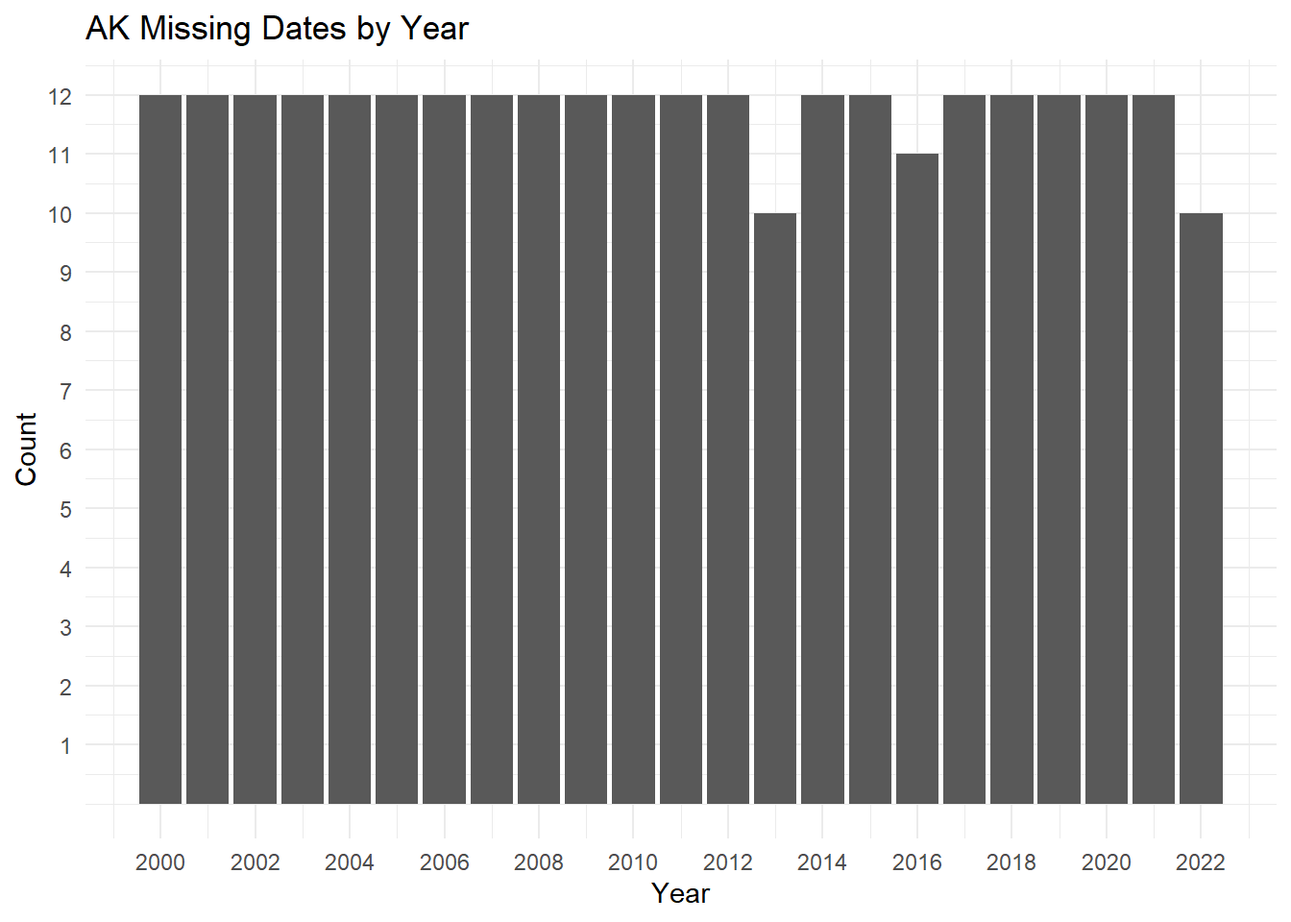
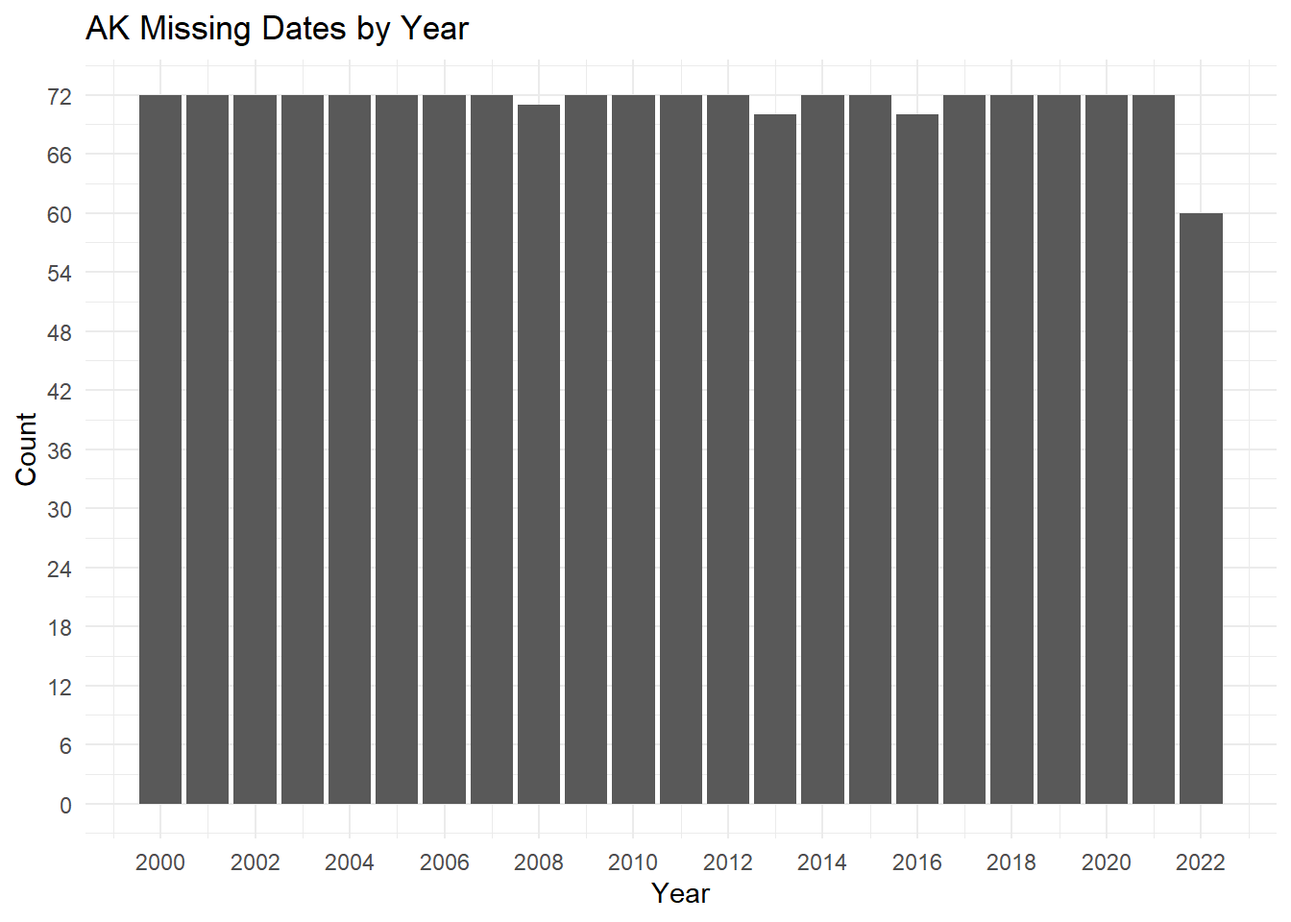
Build Book

diff --git a/docs/data.html b/docs/data.html
@@ -23,7 +23,7 @@
 <meta name="author" content="Kylie Brothers, Spencer Davis, and Sheris Johnet" />
 
 
-<meta name="date" content="2022-12-13" />
+<meta name="date" content="2022-12-14" />
 
   <meta name="viewport" content="width=device-width, initial-scale=1" />
   <meta name="apple-mobile-web-app-capable" content="yes" />
@@ -81,13 +81,18 @@
 <li class="chapter" data-level="3" data-path="data.html"><a href="data.html"><i class="fa fa-check"></i><b>3</b> Data</a>
 <ul>
 <li class="chapter" data-level="3.1" data-path="data.html"><a href="data.html#sources"><i class="fa fa-check"></i><b>3.1</b> Sources</a></li>
-<li class="chapter" data-level="3.2" data-path="data.html"><a href="data.html#cleaning-transformation"><i class="fa fa-check"></i><b>3.2</b> Cleaning / transformation</a></li>
-<li class="chapter" data-level="3.3" data-path="data.html"><a href="data.html#missing-value-analysis"><i class="fa fa-check"></i><b>3.3</b> Missing value analysis</a>
+<li class="chapter" data-level="3.2" data-path="data.html"><a href="data.html#cleaning-transformation"><i class="fa fa-check"></i><b>3.2</b> Cleaning / Transformation</a></li>
+<li class="chapter" data-level="3.3" data-path="data.html"><a href="data.html#missing-value-analysis"><i class="fa fa-check"></i><b>3.3</b> Missing Value Analysis</a>
 <ul>
-<li class="chapter" data-level="3.3.1" data-path="data.html"><a href="data.html#alaska-missing-values"><i class="fa fa-check"></i><b>3.3.1</b> Alaska Missing Values</a></li>
+<li class="chapter" data-level="3.3.1" data-path="data.html"><a href="data.html#data-with-missing-months"><i class="fa fa-check"></i><b>3.3.1</b> Data with Missing Months</a></li>
 </ul></li>
 </ul></li>
-<li class="chapter" data-level="4" data-path="results.html"><a href="results.html"><i class="fa fa-check"></i><b>4</b> Results</a></li>
+<li class="chapter" data-level="4" data-path="results.html"><a href="results.html"><i class="fa fa-check"></i><b>4</b> Results</a>
+<ul>
+<li class="chapter" data-level="4.1" data-path="results.html"><a href="results.html#mean-high-water-mhw"><i class="fa fa-check"></i><b>4.1</b> Mean High Water (MHW)</a></li>
+<li class="chapter" data-level="4.2" data-path="results.html"><a href="results.html#mean-low-water-mlw"><i class="fa fa-check"></i><b>4.2</b> Mean Low Water (MLW)</a></li>
+<li class="chapter" data-level="4.3" data-path="results.html"><a href="results.html#mean-tide-level-mtl"><i class="fa fa-check"></i><b>4.3</b> Mean Tide Level (MTL)</a></li>
+</ul></li>
 <li class="chapter" data-level="5" data-path="interactive-component.html"><a href="interactive-component.html"><i class="fa fa-check"></i><b>5</b> Interactive component</a></li>
 <li class="chapter" data-level="6" data-path="conclusion.html"><a href="conclusion.html"><i class="fa fa-check"></i><b>6</b> Conclusion</a></li>
 <li class="divider"></li>
@@ -114,12 +119,12 @@
 <div id="sources" class="section level2 hasAnchor" number="3.1">
 <h2><span class="header-section-number">3.1</span> Sources<a href="data.html#sources" class="anchor-section" aria-label="Anchor link to header"></a></h2>
 <p>The National Oceanic and Atmospheric Administration (NOAA) gathers information on numerous stations across the United States to monitor tides and currents. The data is collected and recorded through sensors placed on each of the stations. We will be specifically looking at the recorded water levels for 6 different stations in different regions and states throughout the United States; the stations we will be analyzing are The Battery, NY; Virginia Key, Biscayne Bay, FL; Galveston Pier 21, TX; Monterey, CA; Prudhoe Bay, AK; and Honolulu, HI.</p>
-<p>We collected water levels for each station from January 2020 - November 2022 on a monthly basis; it is important to note that some stations have data through part of December, which will be removed in the data transformation phase. These collections included all of the possible datums (the base elevation that was used for collection purposes), recorded in feet, but we will specifically be looking at the Mean Tide Level (MTL). Since the data is collected monthly, the time is always 00:00 GMT. By collecting the data on a monthly basis, we will be able to get the best overall long-term view of the data, 22 years.This will also ensure that the data is manageable and not overwhelming, while still being able to view long term trends and seasonality.</p>
-<p>Currently, the data has character, number, and integer fields; the only field that will need to be transformed is the date field. Additionally, majority of the states have 274 or 275 records depending on if they have December included, which will be transformed to only view data from November and prior. The only state that has less than 274 records is Alaska, which will be explored further in the missing patterns sections.</p>
+<p>We collected water levels for each station from January 2020 - October 2022 on a monthly basis; it is important to note that some stations have data through part of November and December, which will be removed in the data transformation phase. These collections included all of the possible datums (the base elevation that was used for collection purposes), recorded in feet, but we will specifically be looking at the Mean Tide Level (MTL). Since the data is collected monthly, the time is always 00:00 GMT. By collecting the data on a monthly basis, we will be able to get the best overall long-term view of the data, ~23 years. This will also ensure that the data is manageable and not overwhelming, while still being able to view long term trends and seasonality.</p>
+<p>Currently, the data has character, number, and integer fields; the only field that will need to be transformed is the date field. Additionally, majority of the states have 274 or 275 records depending on if they have November or December included, which will be transformed to only view data from October 2022 and prior. The only states that has less than 274 records are Alaska and Texas, which will be explored further in the missing patterns sections.</p>
 </div>
 <div id="cleaning-transformation" class="section level2 hasAnchor" number="3.2">
-<h2><span class="header-section-number">3.2</span> Cleaning / transformation<a href="data.html#cleaning-transformation" class="anchor-section" aria-label="Anchor link to header"></a></h2>
-<p>Overall, the data set was fairly clean and already in a usable state. However, each station had to be downloaded from the NOAA website individually, so we had to bind all of the data sets together to create one manageable data frame. Prior to binding the data frames, we created a new column for the State. Once bound together, the only field that needed to be transformed into the correct data type was the date field; we needed to convert from character to YYYY-MM-DD data format.</p>
+<h2><span class="header-section-number">3.2</span> Cleaning / Transformation<a href="data.html#cleaning-transformation" class="anchor-section" aria-label="Anchor link to header"></a></h2>
+<p>Overall, the data set was fairly clean and already in a usable state. However, each station had to be downloaded from the NOAA website individually, so we had to bind all of the data sets together to create one manageable data frame. Prior to binding the data frames, we created a new column for the State. Once bound together, the only field that needed to be transformed into the correct data type was the date field; we needed to convert from character to YYYY-MM-DD data format. Lastly, we filtered the data to be only from January 2000 - October 2022.</p>
 <pre><code>## &#39;data.frame&#39;:    1642 obs. of  12 variables:
 ##  $ state      : chr  &quot;AK&quot; &quot;AK&quot; &quot;AK&quot; &quot;AK&quot; ...
 ##  $ Date       : chr  &quot;2000/01/01&quot; &quot;2000/02/01&quot; &quot;2000/03/01&quot; &quot;2000/04/01&quot; ...
@@ -135,7 +140,7 @@
 ##  $ Inf.       : int  0 0 0 0 0 0 0 0 0 0 ...</code></pre>
 </div>
 <div id="missing-value-analysis" class="section level2 hasAnchor" number="3.3">
-<h2><span class="header-section-number">3.3</span> Missing value analysis<a href="data.html#missing-value-analysis" class="anchor-section" aria-label="Anchor link to header"></a></h2>
+<h2><span class="header-section-number">3.3</span> Missing Value Analysis<a href="data.html#missing-value-analysis" class="anchor-section" aria-label="Anchor link to header"></a></h2>
 <pre><code>## Lowest..ft.     Highest       state        Date  Time..GMT.   MHHW..ft. 
 ##           9           8           0           0           0           0 
 ##    MHW..ft.    MSL..ft.    MTL..ft.    MLW..ft.   MLLW..ft.        Inf. 
@@ -143,13 +148,23 @@
 <p><img src="finalproj_files/figure-html/unnamed-chunk-6-1.png" width="672" /></p>
 <p>Based on above charts, we can see that there are only two variables with missing data points - Lowest Tide and Highest Tide.</p>
 <p>Since there are many other datums that we can use for the analysis and to view trends, seasonality, and make comparisons. Therefore, we will choose to omit these two fields from our analysis and use the other datums.</p>
-<div id="alaska-missing-values" class="section level3 hasAnchor" number="3.3.1">
-<h3><span class="header-section-number">3.3.1</span> Alaska Missing Values<a href="data.html#alaska-missing-values" class="anchor-section" aria-label="Anchor link to header"></a></h3>
-<p><img src="finalproj_files/figure-html/unnamed-chunk-7-1.png" width="672" /><img src="finalproj_files/figure-html/unnamed-chunk-7-2.png" width="672" /><img src="finalproj_files/figure-html/unnamed-chunk-7-3.png" width="672" /></p>
-<p>Since Alaska was the only state that did not have 274 observations, it was missing 3 values, so we wanted to take a deeper look into what year and months did not have a recorded observations.</p>
+<div id="data-with-missing-months" class="section level3 hasAnchor" number="3.3.1">
+<h3><span class="header-section-number">3.3.1</span> Data with Missing Months<a href="data.html#data-with-missing-months" class="anchor-section" aria-label="Anchor link to header"></a></h3>
+<p><img src="finalproj_files/figure-html/unnamed-chunk-7-1.png" width="672" /></p>
+<p>Since we have 6 stations and should only have 1 observation per month per station, we should expect to see 72 observations per year. By looking at the above chart of a count of all data by year, we can see that there are a few months missing. By data counts, mentioned earlier, we know that Alaska and Texas are the stations causing the missing values. Those are explored further and broken down by month.</p>
+<div id="alaska" class="section level4 hasAnchor" number="3.3.1.1">
+<h4><span class="header-section-number">3.3.1.1</span> Alaska<a href="data.html#alaska" class="anchor-section" aria-label="Anchor link to header"></a></h4>
+<p><img src="finalproj_files/figure-html/unnamed-chunk-8-1.png" width="672" /></p>
+<p>Since Alaska was the only state that did not have 274 observations, so we wanted to take a deeper look into what year and months did not have a recorded observations.</p>
 <p>Based on the first chart, we can see that there are missing values in 2013 and 2016; we are not concerned with seeing only 11 values in 2022 because we do not have that record yet.</p>
 <p>To dig into which exact months are missing, we broke the data down further into just 2013 and just 2016. When we did this, we could see that we are missing August 2013, September 2013, and June 2016.</p>
+</div>
+<div id="texas" class="section level4 hasAnchor" number="3.3.1.2">
+<h4><span class="header-section-number">3.3.1.2</span> Texas<a href="data.html#texas" class="anchor-section" aria-label="Anchor link to header"></a></h4>
+<p><img src="finalproj_files/figure-html/unnamed-chunk-9-1.png" width="672" /></p>
+<p>Doing similar analysis as with Alaska, we can see that Texas is only missing one month - August 2008.</p>
 
+</div>
 </div>
 </div>
 </div>

diff --git a/docs/results.html b/docs/results.html
@@ -23,7 +23,7 @@
 <meta name="author" content="Kylie Brothers, Spencer Davis, and Sheris Johnet" />
 
 
-<meta name="date" content="2022-12-13" />
+<meta name="date" content="2022-12-14" />
 
   <meta name="viewport" content="width=device-width, initial-scale=1" />
   <meta name="apple-mobile-web-app-capable" content="yes" />
@@ -81,13 +81,18 @@
 <li class="chapter" data-level="3" data-path="data.html"><a href="data.html"><i class="fa fa-check"></i><b>3</b> Data</a>
 <ul>
 <li class="chapter" data-level="3.1" data-path="data.html"><a href="data.html#sources"><i class="fa fa-check"></i><b>3.1</b> Sources</a></li>
-<li class="chapter" data-level="3.2" data-path="data.html"><a href="data.html#cleaning-transformation"><i class="fa fa-check"></i><b>3.2</b> Cleaning / transformation</a></li>
-<li class="chapter" data-level="3.3" data-path="data.html"><a href="data.html#missing-value-analysis"><i class="fa fa-check"></i><b>3.3</b> Missing value analysis</a>
+<li class="chapter" data-level="3.2" data-path="data.html"><a href="data.html#cleaning-transformation"><i class="fa fa-check"></i><b>3.2</b> Cleaning / Transformation</a></li>
+<li class="chapter" data-level="3.3" data-path="data.html"><a href="data.html#missing-value-analysis"><i class="fa fa-check"></i><b>3.3</b> Missing Value Analysis</a>
 <ul>
-<li class="chapter" data-level="3.3.1" data-path="data.html"><a href="data.html#alaska-missing-values"><i class="fa fa-check"></i><b>3.3.1</b> Alaska Missing Values</a></li>
+<li class="chapter" data-level="3.3.1" data-path="data.html"><a href="data.html#data-with-missing-months"><i class="fa fa-check"></i><b>3.3.1</b> Data with Missing Months</a></li>
 </ul></li>
 </ul></li>
-<li class="chapter" data-level="4" data-path="results.html"><a href="results.html"><i class="fa fa-check"></i><b>4</b> Results</a></li>
+<li class="chapter" data-level="4" data-path="results.html"><a href="results.html"><i class="fa fa-check"></i><b>4</b> Results</a>
+<ul>
+<li class="chapter" data-level="4.1" data-path="results.html"><a href="results.html#mean-high-water-mhw"><i class="fa fa-check"></i><b>4.1</b> Mean High Water (MHW)</a></li>
+<li class="chapter" data-level="4.2" data-path="results.html"><a href="results.html#mean-low-water-mlw"><i class="fa fa-check"></i><b>4.2</b> Mean Low Water (MLW)</a></li>
+<li class="chapter" data-level="4.3" data-path="results.html"><a href="results.html#mean-tide-level-mtl"><i class="fa fa-check"></i><b>4.3</b> Mean Tide Level (MTL)</a></li>
+</ul></li>
 <li class="chapter" data-level="5" data-path="interactive-component.html"><a href="interactive-component.html"><i class="fa fa-check"></i><b>5</b> Interactive component</a></li>
 <li class="chapter" data-level="6" data-path="conclusion.html"><a href="conclusion.html"><i class="fa fa-check"></i><b>6</b> Conclusion</a></li>
 <li class="divider"></li>
@@ -111,7 +116,16 @@
             <section class="normal" id="section-">
 <div id="results" class="section level1 hasAnchor" number="4">
 <h1><span class="header-section-number">Chapter 4</span> Results<a href="results.html#results" class="anchor-section" aria-label="Anchor link to header"></a></h1>
+<div id="mean-high-water-mhw" class="section level2 hasAnchor" number="4.1">
+<h2><span class="header-section-number">4.1</span> Mean High Water (MHW)<a href="results.html#mean-high-water-mhw" class="anchor-section" aria-label="Anchor link to header"></a></h2>
+</div>
+<div id="mean-low-water-mlw" class="section level2 hasAnchor" number="4.2">
+<h2><span class="header-section-number">4.2</span> Mean Low Water (MLW)<a href="results.html#mean-low-water-mlw" class="anchor-section" aria-label="Anchor link to header"></a></h2>
+</div>
+<div id="mean-tide-level-mtl" class="section level2 hasAnchor" number="4.3">
+<h2><span class="header-section-number">4.3</span> Mean Tide Level (MTL)<a href="results.html#mean-tide-level-mtl" class="anchor-section" aria-label="Anchor link to header"></a></h2>
 
+</div>
 </div>
             </section>
 

diff --git a/docs/index.html b/docs/index.html
@@ -23,7 +23,7 @@
 <meta name="author" content="Kylie Brothers, Spencer Davis, and Sheris Johnet" />
 
 
-<meta name="date" content="2022-12-13" />
+<meta name="date" content="2022-12-14" />
 
   <meta name="viewport" content="width=device-width, initial-scale=1" />
   <meta name="apple-mobile-web-app-capable" content="yes" />
@@ -81,13 +81,18 @@
 <li class="chapter" data-level="3" data-path="data.html"><a href="data.html"><i class="fa fa-check"></i><b>3</b> Data</a>
 <ul>
 <li class="chapter" data-level="3.1" data-path="data.html"><a href="data.html#sources"><i class="fa fa-check"></i><b>3.1</b> Sources</a></li>
-<li class="chapter" data-level="3.2" data-path="data.html"><a href="data.html#cleaning-transformation"><i class="fa fa-check"></i><b>3.2</b> Cleaning / transformation</a></li>
-<li class="chapter" data-level="3.3" data-path="data.html"><a href="data.html#missing-value-analysis"><i class="fa fa-check"></i><b>3.3</b> Missing value analysis</a>
+<li class="chapter" data-level="3.2" data-path="data.html"><a href="data.html#cleaning-transformation"><i class="fa fa-check"></i><b>3.2</b> Cleaning / Transformation</a></li>
+<li class="chapter" data-level="3.3" data-path="data.html"><a href="data.html#missing-value-analysis"><i class="fa fa-check"></i><b>3.3</b> Missing Value Analysis</a>
 <ul>
-<li class="chapter" data-level="3.3.1" data-path="data.html"><a href="data.html#alaska-missing-values"><i class="fa fa-check"></i><b>3.3.1</b> Alaska Missing Values</a></li>
+<li class="chapter" data-level="3.3.1" data-path="data.html"><a href="data.html#data-with-missing-months"><i class="fa fa-check"></i><b>3.3.1</b> Data with Missing Months</a></li>
 </ul></li>
 </ul></li>
-<li class="chapter" data-level="4" data-path="results.html"><a href="results.html"><i class="fa fa-check"></i><b>4</b> Results</a></li>
+<li class="chapter" data-level="4" data-path="results.html"><a href="results.html"><i class="fa fa-check"></i><b>4</b> Results</a>
+<ul>
+<li class="chapter" data-level="4.1" data-path="results.html"><a href="results.html#mean-high-water-mhw"><i class="fa fa-check"></i><b>4.1</b> Mean High Water (MHW)</a></li>
+<li class="chapter" data-level="4.2" data-path="results.html"><a href="results.html#mean-low-water-mlw"><i class="fa fa-check"></i><b>4.2</b> Mean Low Water (MLW)</a></li>
+<li class="chapter" data-level="4.3" data-path="results.html"><a href="results.html#mean-tide-level-mtl"><i class="fa fa-check"></i><b>4.3</b> Mean Tide Level (MTL)</a></li>
+</ul></li>
 <li class="chapter" data-level="5" data-path="interactive-component.html"><a href="interactive-component.html"><i class="fa fa-check"></i><b>5</b> Interactive component</a></li>
 <li class="chapter" data-level="6" data-path="conclusion.html"><a href="conclusion.html"><i class="fa fa-check"></i><b>6</b> Conclusion</a></li>
 <li class="divider"></li>
@@ -112,7 +117,7 @@
 <div id="header">
 <h1 class="title">United States Water Levels</h1>
 <p class="author"><em>Kylie Brothers, Spencer Davis, and Sheris Johnet</em></p>
-<p class="date"><em>2022-12-13</em></p>
+<p class="date"><em>2022-12-14</em></p>
 </div>
 <div id="introduction" class="section level1 hasAnchor" number="1">
 <h1><span class="header-section-number">Chapter 1</span> Introduction<a href="index.html#introduction" class="anchor-section" aria-label="Anchor link to header"></a></h1>

diff --git a/docs/404.html b/docs/404.html
@@ -23,7 +23,7 @@
 <meta name="author" content="Kylie Brothers, Spencer Davis, and Sheris Johnet" />
 
 
-<meta name="date" content="2022-12-13" />
+<meta name="date" content="2022-12-14" />
 
   <meta name="viewport" content="width=device-width, initial-scale=1" />
   <meta name="apple-mobile-web-app-capable" content="yes" />
@@ -81,13 +81,18 @@
 <li class="chapter" data-level="3" data-path="data.html"><a href="data.html"><i class="fa fa-check"></i><b>3</b> Data</a>
 <ul>
 <li class="chapter" data-level="3.1" data-path="data.html"><a href="data.html#sources"><i class="fa fa-check"></i><b>3.1</b> Sources</a></li>
-<li class="chapter" data-level="3.2" data-path="data.html"><a href="data.html#cleaning-transformation"><i class="fa fa-check"></i><b>3.2</b> Cleaning / transformation</a></li>
-<li class="chapter" data-level="3.3" data-path="data.html"><a href="data.html#missing-value-analysis"><i class="fa fa-check"></i><b>3.3</b> Missing value analysis</a>
+<li class="chapter" data-level="3.2" data-path="data.html"><a href="data.html#cleaning-transformation"><i class="fa fa-check"></i><b>3.2</b> Cleaning / Transformation</a></li>
+<li class="chapter" data-level="3.3" data-path="data.html"><a href="data.html#missing-value-analysis"><i class="fa fa-check"></i><b>3.3</b> Missing Value Analysis</a>
 <ul>
-<li class="chapter" data-level="3.3.1" data-path="data.html"><a href="data.html#alaska-missing-values"><i class="fa fa-check"></i><b>3.3.1</b> Alaska Missing Values</a></li>
+<li class="chapter" data-level="3.3.1" data-path="data.html"><a href="data.html#data-with-missing-months"><i class="fa fa-check"></i><b>3.3.1</b> Data with Missing Months</a></li>
 </ul></li>
 </ul></li>
-<li class="chapter" data-level="4" data-path="results.html"><a href="results.html"><i class="fa fa-check"></i><b>4</b> Results</a></li>
+<li class="chapter" data-level="4" data-path="results.html"><a href="results.html"><i class="fa fa-check"></i><b>4</b> Results</a>
+<ul>
+<li class="chapter" data-level="4.1" data-path="results.html"><a href="results.html#mean-high-water-mhw"><i class="fa fa-check"></i><b>4.1</b> Mean High Water (MHW)</a></li>
+<li class="chapter" data-level="4.2" data-path="results.html"><a href="results.html#mean-low-water-mlw"><i class="fa fa-check"></i><b>4.2</b> Mean Low Water (MLW)</a></li>
+<li class="chapter" data-level="4.3" data-path="results.html"><a href="results.html#mean-tide-level-mtl"><i class="fa fa-check"></i><b>4.3</b> Mean Tide Level (MTL)</a></li>
+</ul></li>
 <li class="chapter" data-level="5" data-path="interactive-component.html"><a href="interactive-component.html"><i class="fa fa-check"></i><b>5</b> Interactive component</a></li>
 <li class="chapter" data-level="6" data-path="conclusion.html"><a href="conclusion.html"><i class="fa fa-check"></i><b>6</b> Conclusion</a></li>
 <li class="divider"></li>

diff --git a/docs/conclusion.html b/docs/conclusion.html
@@ -23,7 +23,7 @@
 <meta name="author" content="Kylie Brothers, Spencer Davis, and Sheris Johnet" />
 
 
-<meta name="date" content="2022-12-13" />
+<meta name="date" content="2022-12-14" />
 
   <meta name="viewport" content="width=device-width, initial-scale=1" />
   <meta name="apple-mobile-web-app-capable" content="yes" />
@@ -81,13 +81,18 @@
 <li class="chapter" data-level="3" data-path="data.html"><a href="data.html"><i class="fa fa-check"></i><b>3</b> Data</a>
 <ul>
 <li class="chapter" data-level="3.1" data-path="data.html"><a href="data.html#sources"><i class="fa fa-check"></i><b>3.1</b> Sources</a></li>
-<li class="chapter" data-level="3.2" data-path="data.html"><a href="data.html#cleaning-transformation"><i class="fa fa-check"></i><b>3.2</b> Cleaning / transformation</a></li>
-<li class="chapter" data-level="3.3" data-path="data.html"><a href="data.html#missing-value-analysis"><i class="fa fa-check"></i><b>3.3</b> Missing value analysis</a>
+<li class="chapter" data-level="3.2" data-path="data.html"><a href="data.html#cleaning-transformation"><i class="fa fa-check"></i><b>3.2</b> Cleaning / Transformation</a></li>
+<li class="chapter" data-level="3.3" data-path="data.html"><a href="data.html#missing-value-analysis"><i class="fa fa-check"></i><b>3.3</b> Missing Value Analysis</a>
 <ul>
-<li class="chapter" data-level="3.3.1" data-path="data.html"><a href="data.html#alaska-missing-values"><i class="fa fa-check"></i><b>3.3.1</b> Alaska Missing Values</a></li>
+<li class="chapter" data-level="3.3.1" data-path="data.html"><a href="data.html#data-with-missing-months"><i class="fa fa-check"></i><b>3.3.1</b> Data with Missing Months</a></li>
 </ul></li>
 </ul></li>
-<li class="chapter" data-level="4" data-path="results.html"><a href="results.html"><i class="fa fa-check"></i><b>4</b> Results</a></li>
+<li class="chapter" data-level="4" data-path="results.html"><a href="results.html"><i class="fa fa-check"></i><b>4</b> Results</a>
+<ul>
+<li class="chapter" data-level="4.1" data-path="results.html"><a href="results.html#mean-high-water-mhw"><i class="fa fa-check"></i><b>4.1</b> Mean High Water (MHW)</a></li>
+<li class="chapter" data-level="4.2" data-path="results.html"><a href="results.html#mean-low-water-mlw"><i class="fa fa-check"></i><b>4.2</b> Mean Low Water (MLW)</a></li>
+<li class="chapter" data-level="4.3" data-path="results.html"><a href="results.html#mean-tide-level-mtl"><i class="fa fa-check"></i><b>4.3</b> Mean Tide Level (MTL)</a></li>
+</ul></li>
 <li class="chapter" data-level="5" data-path="interactive-component.html"><a href="interactive-component.html"><i class="fa fa-check"></i><b>5</b> Interactive component</a></li>
 <li class="chapter" data-level="6" data-path="conclusion.html"><a href="conclusion.html"><i class="fa fa-check"></i><b>6</b> Conclusion</a></li>
 <li class="divider"></li>

diff --git a/docs/interactive-component.html b/docs/interactive-component.html
@@ -23,7 +23,7 @@
 <meta name="author" content="Kylie Brothers, Spencer Davis, and Sheris Johnet" />
 
 
-<meta name="date" content="2022-12-13" />
+<meta name="date" content="2022-12-14" />
 
   <meta name="viewport" content="width=device-width, initial-scale=1" />
   <meta name="apple-mobile-web-app-capable" content="yes" />
@@ -81,13 +81,18 @@
 <li class="chapter" data-level="3" data-path="data.html"><a href="data.html"><i class="fa fa-check"></i><b>3</b> Data</a>
 <ul>
 <li class="chapter" data-level="3.1" data-path="data.html"><a href="data.html#sources"><i class="fa fa-check"></i><b>3.1</b> Sources</a></li>
-<li class="chapter" data-level="3.2" data-path="data.html"><a href="data.html#cleaning-transformation"><i class="fa fa-check"></i><b>3.2</b> Cleaning / transformation</a></li>
-<li class="chapter" data-level="3.3" data-path="data.html"><a href="data.html#missing-value-analysis"><i class="fa fa-check"></i><b>3.3</b> Missing value analysis</a>
+<li class="chapter" data-level="3.2" data-path="data.html"><a href="data.html#cleaning-transformation"><i class="fa fa-check"></i><b>3.2</b> Cleaning / Transformation</a></li>
+<li class="chapter" data-level="3.3" data-path="data.html"><a href="data.html#missing-value-analysis"><i class="fa fa-check"></i><b>3.3</b> Missing Value Analysis</a>
 <ul>
-<li class="chapter" data-level="3.3.1" data-path="data.html"><a href="data.html#alaska-missing-values"><i class="fa fa-check"></i><b>3.3.1</b> Alaska Missing Values</a></li>
+<li class="chapter" data-level="3.3.1" data-path="data.html"><a href="data.html#data-with-missing-months"><i class="fa fa-check"></i><b>3.3.1</b> Data with Missing Months</a></li>
 </ul></li>
 </ul></li>
-<li class="chapter" data-level="4" data-path="results.html"><a href="results.html"><i class="fa fa-check"></i><b>4</b> Results</a></li>
+<li class="chapter" data-level="4" data-path="results.html"><a href="results.html"><i class="fa fa-check"></i><b>4</b> Results</a>
+<ul>
+<li class="chapter" data-level="4.1" data-path="results.html"><a href="results.html#mean-high-water-mhw"><i class="fa fa-check"></i><b>4.1</b> Mean High Water (MHW)</a></li>
+<li class="chapter" data-level="4.2" data-path="results.html"><a href="results.html#mean-low-water-mlw"><i class="fa fa-check"></i><b>4.2</b> Mean Low Water (MLW)</a></li>
+<li class="chapter" data-level="4.3" data-path="results.html"><a href="results.html#mean-tide-level-mtl"><i class="fa fa-check"></i><b>4.3</b> Mean Tide Level (MTL)</a></li>
+</ul></li>
 <li class="chapter" data-level="5" data-path="interactive-component.html"><a href="interactive-component.html"><i class="fa fa-check"></i><b>5</b> Interactive component</a></li>
 <li class="chapter" data-level="6" data-path="conclusion.html"><a href="conclusion.html"><i class="fa fa-check"></i><b>6</b> Conclusion</a></li>
 <li class="divider"></li>

diff --git a/docs/proposal.html b/docs/proposal.html
@@ -23,7 +23,7 @@
 <meta name="author" content="Kylie Brothers, Spencer Davis, and Sheris Johnet" />
 
 
-<meta name="date" content="2022-12-13" />
+<meta name="date" content="2022-12-14" />
 
   <meta name="viewport" content="width=device-width, initial-scale=1" />
   <meta name="apple-mobile-web-app-capable" content="yes" />
@@ -81,13 +81,18 @@
 <li class="chapter" data-level="3" data-path="data.html"><a href="data.html"><i class="fa fa-check"></i><b>3</b> Data</a>
 <ul>
 <li class="chapter" data-level="3.1" data-path="data.html"><a href="data.html#sources"><i class="fa fa-check"></i><b>3.1</b> Sources</a></li>
-<li class="chapter" data-level="3.2" data-path="data.html"><a href="data.html#cleaning-transformation"><i class="fa fa-check"></i><b>3.2</b> Cleaning / transformation</a></li>
-<li class="chapter" data-level="3.3" data-path="data.html"><a href="data.html#missing-value-analysis"><i class="fa fa-check"></i><b>3.3</b> Missing value analysis</a>
+<li class="chapter" data-level="3.2" data-path="data.html"><a href="data.html#cleaning-transformation"><i class="fa fa-check"></i><b>3.2</b> Cleaning / Transformation</a></li>
+<li class="chapter" data-level="3.3" data-path="data.html"><a href="data.html#missing-value-analysis"><i class="fa fa-check"></i><b>3.3</b> Missing Value Analysis</a>
 <ul>
-<li class="chapter" data-level="3.3.1" data-path="data.html"><a href="data.html#alaska-missing-values"><i class="fa fa-check"></i><b>3.3.1</b> Alaska Missing Values</a></li>
+<li class="chapter" data-level="3.3.1" data-path="data.html"><a href="data.html#data-with-missing-months"><i class="fa fa-check"></i><b>3.3.1</b> Data with Missing Months</a></li>
 </ul></li>
 </ul></li>
-<li class="chapter" data-level="4" data-path="results.html"><a href="results.html"><i class="fa fa-check"></i><b>4</b> Results</a></li>
+<li class="chapter" data-level="4" data-path="results.html"><a href="results.html"><i class="fa fa-check"></i><b>4</b> Results</a>
+<ul>
+<li class="chapter" data-level="4.1" data-path="results.html"><a href="results.html#mean-high-water-mhw"><i class="fa fa-check"></i><b>4.1</b> Mean High Water (MHW)</a></li>
+<li class="chapter" data-level="4.2" data-path="results.html"><a href="results.html#mean-low-water-mlw"><i class="fa fa-check"></i><b>4.2</b> Mean Low Water (MLW)</a></li>
+<li class="chapter" data-level="4.3" data-path="results.html"><a href="results.html#mean-tide-level-mtl"><i class="fa fa-check"></i><b>4.3</b> Mean Tide Level (MTL)</a></li>
+</ul></li>
 <li class="chapter" data-level="5" data-path="interactive-component.html"><a href="interactive-component.html"><i class="fa fa-check"></i><b>5</b> Interactive component</a></li>
 <li class="chapter" data-level="6" data-path="conclusion.html"><a href="conclusion.html"><i class="fa fa-check"></i><b>6</b> Conclusion</a></li>
 <li class="divider"></li>
